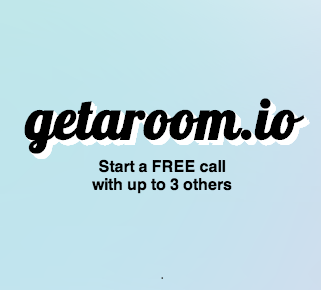
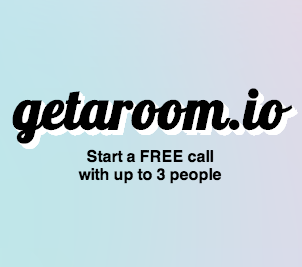
Resolving slightly false advertising ;)

Changed region(s): [[0.0298, 0.3296, 0.9834, 0.5693], [0.2384, 0.5393, 0.745, 0.6891]]

diff --git a/source/js/components/controls.js b/source/js/components/controls.js
@@ -58,7 +58,7 @@ define([
                 res.push(
                     React.DOM.div( {className:"description"}, 
                         React.DOM.p(null, 
-                            "Start a FREE call",React.DOM.br(null ),"with up to 3 others"
+                            "Start a FREE call",React.DOM.br(null ),"with up to 3 people"
                         ),
                         React.DOM.p(null, 
                             "Just hit the \"Start a new call\" button below and share the link.",React.DOM.br(null ),React.DOM.br(null ),

diff --git a/source/jsx/components/controls.jsx b/source/jsx/components/controls.jsx
@@ -58,7 +58,7 @@ define([
                 res.push(
                     <div className="description">
                         <p>
-                            Start a FREE call<br />with up to 3 others
+                            Start a FREE call<br />with up to 3 people
                         </p>
                         <p>
                             Just hit the &quot;Start a new call&quot; button below and share the link.<br /><br />
